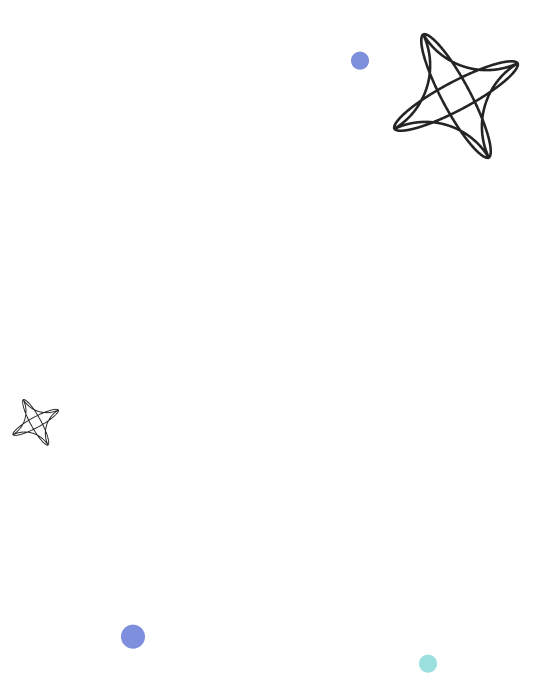
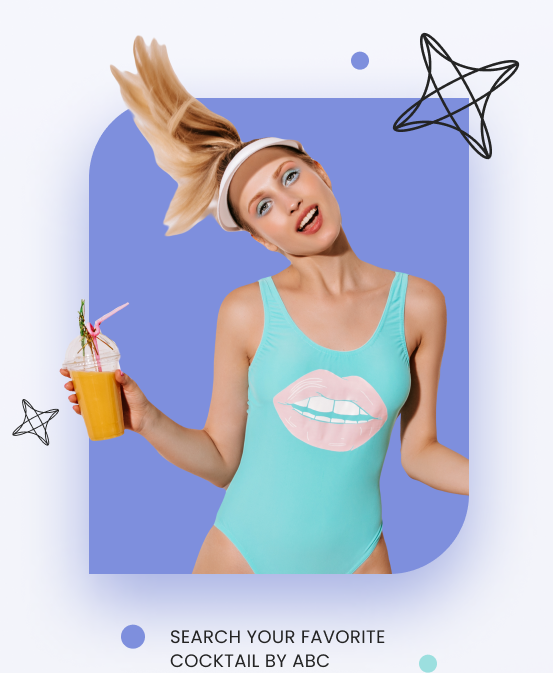
5

diff --git a/src/styles.css b/src/styles.css
@@ -12,72 +12,12 @@ body {
 
 .container {
   margin: 0 auto;
-  width: 1280px;
-}
-
-.hero-left {
-  margin-top: 228px;
-}
-
-.hero-right {
-  margin-top: 94px;
+  width: 100%;
 }
 
 .hero {
   display: flex;
   justify-content: center;
-  gap: 56px;
-}
-
-.hero-title {
-  margin-top: 0;
-  margin-bottom: 0;
-  width: 555px;
-  color: #242424;
-  font-family: Poppins;
-  font-size: 64px;
-  font-style: normal;
-  font-weight: 400;
-  line-height: 1.09;
-}
-.hero-cocktails {
-  color: #7e8fdd;
-  font-size: 64px;
-  font-style: italic;
-  font-weight: 400;
-  line-height: 1.09;
-}
-.hero-about {
-  margin-top: 0;
-  margin-bottom: 0;
-  padding-top: 28px;
-  color: #242424;
-  font-family: Poppins;
-  font-size: 20px;
-  font-style: normal;
-  font-weight: 400;
-  line-height: 1.3;
-  max-width: 478px;
-}
-
-.hero-button {
-  margin-top: 56px;
-  padding-block: 0;
-  padding-inline: 0;
-  cursor: pointer;
-  width: 245px;
-  height: 68px;
-  border-radius: 12px;
-  background-color: #7e8fdd;
-  border: none;
-  color: #fdfdff;
-  font-family: Poppins;
-  font-size: 18px;
-  font-style: normal;
-  font-weight: 600;
-  line-height: 1.33;
-  letter-spacing: 0.36px;
-  text-transform: uppercase;
 }
 
 .hero-button:hover,
@@ -86,65 +26,124 @@ body {
   transition: background-color 250ms cubic-bezier(0.4, 0, 0.2, 1);
 }
 
-.background {
-  position: absolute;
-}
-.hero-right {
-  margin-right: -83px;
-  position: relative;
-  background: url(./images/Girl.png) 100% 100% no-repeat,
-    url(./images/Rectangle725.png) 100% 100% no-repeat;
-  background-position: top 10px right 81px, top 50px left 15px;
-  width: 552px;
-  height: 672px;
-}
-.hero-right-about {
-  position: absolute;
-  top: 625px;
-  right: 170px;
-  width: 219px;
-  color: #242424;
-  font-size: 18px;
-  font-style: normal;
-  font-weight: 400;
-  line-height: 1.33;
-  letter-spacing: 0.36px;
-  text-transform: uppercase;
-  margin-block-end: 0;
-  margin-block-start: 0;
-}
-
 @media screen and (max-width: 320px) {
 }
 
 @media screen and (min-width: 480px) and (max-width: 767px) {
 }
 @media screen and (min-width: 768px) {
-  .hero-right-background {
-    visibility: hidden;
-  }
-  .hero-right {
-    margin-right: -54px;
-    position: relative;
-    background: url(./images/Girl.png) 100% 100% no-repeat,
-      url(./images/Rectangle725.png) 100% 100% no-repeat,
-      url(./images/elements.png) 100% 100% no-repeat;
-    background-position: top 10px right 81px, top 50px left 15px;
-    width: 552px;
-    height: 672px;
-  }
 }
 @media screen and (min-width: 1280px) {
-  .hero-right-background {
-    visibility: visible;
+  .container {
+    margin: 0 auto;
+    width: 100%;
+  }
+
+  .hero {
+    display: flex;
+    justify-content: center;
+    gap: 56px;
+  }
+
+  .hero-left {
+    width: 555px;
+    max-height: 414;
+    margin-top: 228px;
+  }
+
+  .hero-title {
+    margin-top: 0;
+    margin-bottom: 0;
+    width: 555px;
+    color: #242424;
+    font-family: Poppins;
+    font-size: 64px;
+    font-style: normal;
+    font-weight: 400;
+    line-height: 1.09;
+  }
+  .hero-cocktails {
+    color: #7e8fdd;
+    font-size: 64px;
+    font-style: italic;
+    font-weight: 400;
+    line-height: 1.09;
+  }
+  .hero-about {
+    margin-top: 0;
+    margin-bottom: 0;
+    padding-top: 28px;
+    color: #242424;
+    font-family: Poppins;
+    font-size: 20px;
+    font-style: normal;
+    font-weight: 400;
+    line-height: 1.3;
+    max-width: 478px;
+  }
+
+  .hero-button {
+    margin-top: 56px;
+    padding-block: 0;
+    padding-inline: 0;
+    cursor: pointer;
+    width: 245px;
+    height: 68px;
+    border-radius: 12px;
+    background-color: #7e8fdd;
+    border: none;
+    color: #fdfdff;
+    font-family: Poppins;
+    font-size: 18px;
+    font-style: normal;
+    font-weight: 600;
+    line-height: 1.33;
+    letter-spacing: 0.36px;
+    text-transform: uppercase;
   }
   .hero-right {
-    margin-right: -83px;
     position: relative;
-    background: url(./images/Girl.png) 100% 100% no-repeat,
-      url(./images/Rectangle725.png) 100% 100% no-repeat;
-    background-position: top 10px right 81px, top 50px left 15px;
     width: 552px;
     height: 672px;
+    margin-top: 94px;
+  }
+  .background {
+  }
+  .hero-right-background1 {
+    position: absolute;
+    width: 552px;
+    height: 672px;
+    right: -87px;
+    z-index: 1;
+  }
+  .hero-right-background2 {
+    position: relative;
+    width: 530px;
+    height: 626px;
+    right: -100px;
+    bottom: -51px;
+  }
+  .hero-right-background3 {
+    position: absolute;
+    width: 410px;
+    height: 565px;
+    right: -3px;
+    bottom: 97px;
+  }
+
+  .hero-right-about {
+    position: absolute;
+    top: 625px;
+    right: 70px;
+    width: 219px;
+    color: #242424;
+    font-size: 18px;
+    font-style: normal;
+    font-weight: 400;
+    line-height: 1.33;
+    letter-spacing: 0.36px;
+    text-transform: uppercase;
+    margin-block-end: 0;
+    margin-block-start: 0;
   }
 }

diff --git a/src/index.html b/src/index.html
@@ -28,12 +28,24 @@
       </div>
       <div class="hero-right">
         <img
-          class="hero-right-background"
-          src="./images/elements.png"
+          class="hero-right-background1"
+          src="./images/elements_desc.png"
           alt=""
           width="552px"
           ;
           height="672px"
+          ;
+        />
+        <img
+          class="hero-right-background2"
+          src="./images/rectangle725_desc.png"
+          alt=""
+          ;
+        />
+        <img
+          class="hero-right-background3"
+          src="./images/girl_desc.png"
+          alt=""
           ;
         />
         <p class="hero-right-about">search your favorite cocktail by abc</p>
